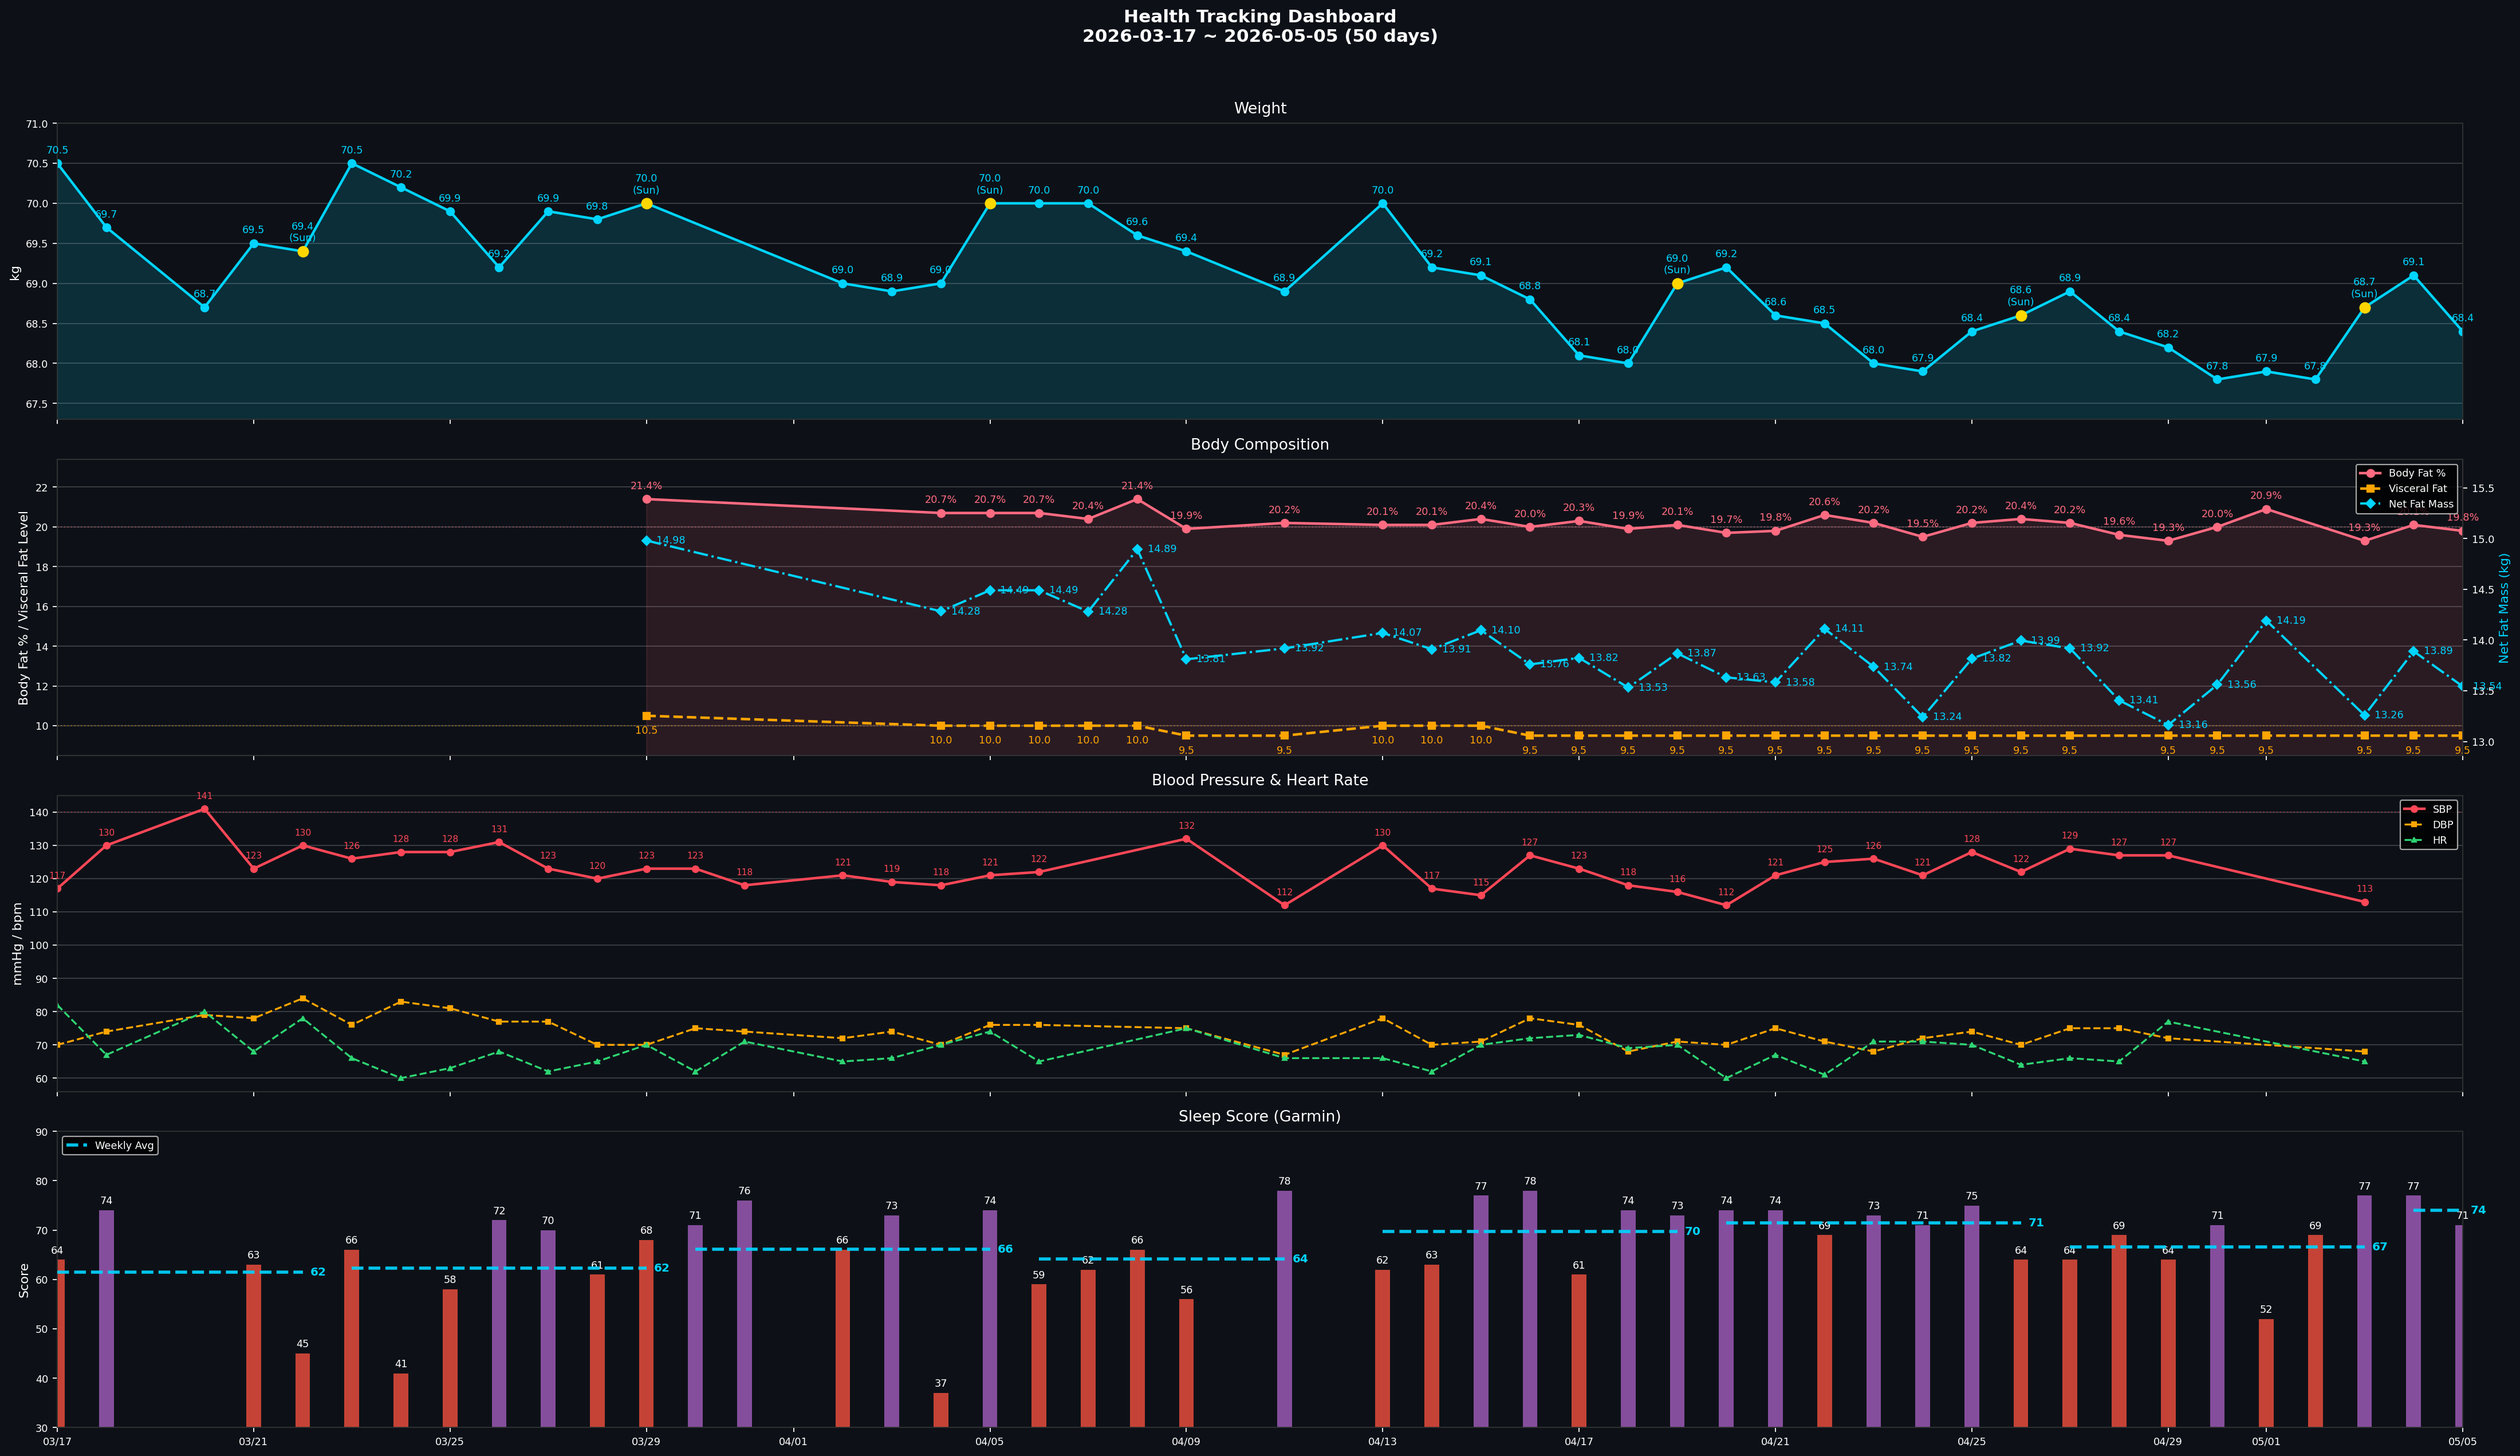
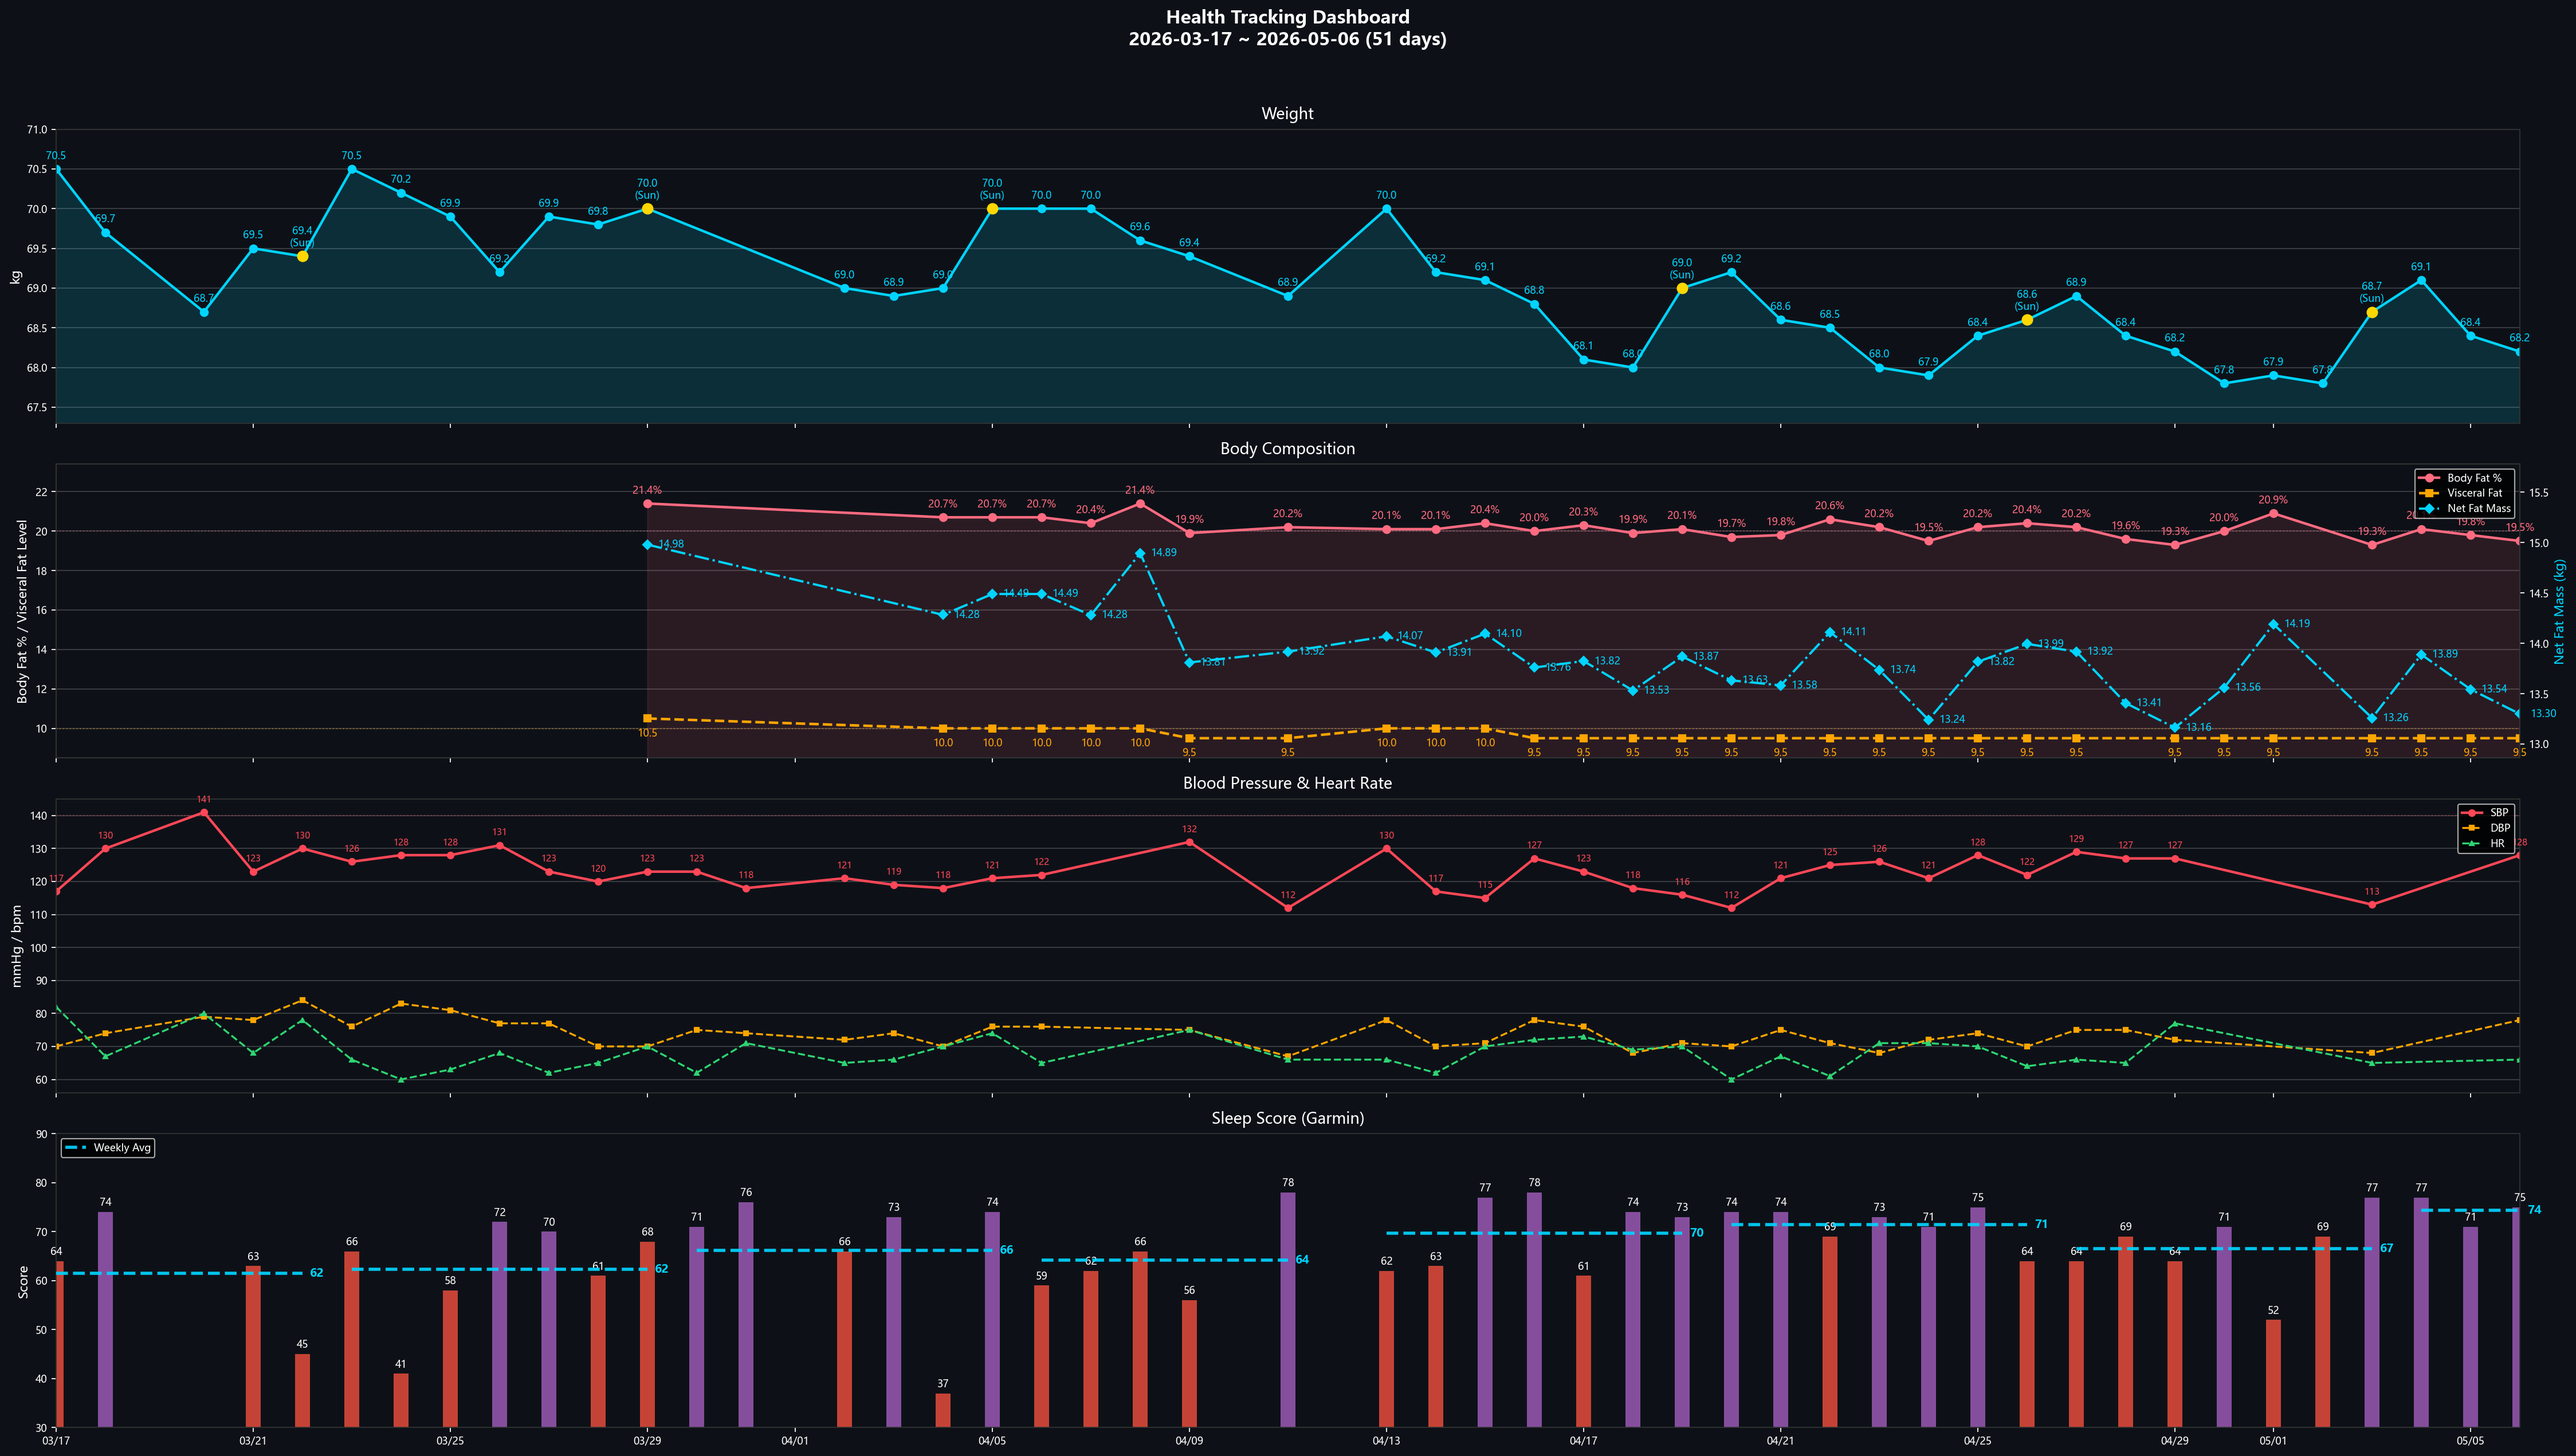
daily 2026-05-06: 68.2/19.5%/9.5｜BP 128/78/66｜Sleep 75 BB 56｜POSA Night 2 T90 4.9% events 4
- 體重 68.2 kg / 體脂 19.5% / 內臟脂肪 9.5
- BP 第二次 128/78/66
- Sleep 75 / BB 56 / 主觀 3 / TST 6h12m / 中醒 2 次
- SpO2 nadir 84%（連 7 晚 < 88%）
- POSA Night 2: T90 4.9% / nadir 84% / events 4 — 落入「強烈 POSA」(T90≤5%)
- 身體信號：左肩 3/10
- 昨日飲水 2.10 L（< 2.5L 目標）

diff --git a/data.js b/data.js
@@ -9,8 +9,8 @@ window.HC_DATA = {
     lede:    { en: "Sleep, BP, lipids, uric acid — one shared metabolic root. Lifestyle stacks first; medication only after lifestyle plateaus.",
                zh: "睡眠、血壓、血脂、尿酸——共享同一個代謝根源。生活方式介入優先，等到效果平台期再考慮藥物。" },
     progressLbl: { en: "Weight progress · 70 → 65 kg", zh: "體重進度 · 70 → 65 公斤" },
-    progressMeta: { en: "Day 50 · 67.8 kg · Sat official (5/2)", zh: "第 50 天 · 67.8 公斤 · 週六正式（5/2）" },
-    startDate: { en: "Start date · Mar 17, 2026 · Last sync 5/5", zh: "起始日期 · 2026 年 3 月 17 日 · 最後同步 5/5" },
+    progressMeta: { en: "Day 51 · 67.8 kg · Sat official (5/2)", zh: "第 51 天 · 67.8 公斤 · 週六正式（5/2）" },
+    startDate: { en: "Start date · Mar 17, 2026 · Last sync 5/6", zh: "起始日期 · 2026 年 3 月 17 日 · 最後同步 5/6" },
     startWeight: 70,
     targetWeight: 65,
     currentWeight: 67.8,
@@ -21,13 +21,13 @@ window.HC_DATA = {
     {
       sys: "heart", name: { en: "Blood Pressure", zh: "血壓" },
       val: "124/72", unit: "mmHg",
-      delta: { en: "W18 weekly avg (4 days) · target met (<130) · last 113/68 (5/3)", zh: "W18 週均（4 天）· 已達標 (<130) · 最新 113/68 (5/3)" },
+      delta: { en: "W18 weekly avg (4 days) · target met (<130) · last 128/78 (5/6)", zh: "W18 週均（4 天）· 已達標 (<130) · 最新 128/78 (5/6)" },
       cadence: { en: "Daily · weekly avg", zh: "每日 · 週均" },
       status: "ok",
     },
     {
       sys: "sleep", name: { en: "Sleep Score", zh: "睡眠分數" },
-      val: "71", unit: "Garmin",
+      val: "75", unit: "Garmin",
       delta: { en: "5/4 · OSA flag: T90 18.4% (severe)", zh: "5/4 · OSA 紅旗：T90 18.4%（重度）" },
       cadence: { en: "Daily · Garmin", zh: "每日 · Garmin" },
       status: "warn",
@@ -820,14 +820,14 @@ window.HC_DATA = {
   tracker: {
     // [SBP, DBP] — gaps filled with prior reading
     bp: [
-      [125,71], [126,68], [121,72], [128,74], [122,70], [129,75], [127,75], [127,72], [127,72], [127,72], [127,72], [113,68], [113,68], [113,68],
+      [126,68], [121,72], [128,74], [122,70], [129,75], [127,75], [127,72], [127,72], [127,72], [127,72], [113,68], [113,68], [113,68], [128,78],
     ],
     // 4/21–5/4 daily weight (kg)
-    weight: [68.5, 68, 67.9, 68.4, 68.6, 68.9, 68.4, 68.2, 67.8, 67.9, 67.8, 68.7, 69.1, 68.4],
+    weight: [68, 67.9, 68.4, 68.6, 68.9, 68.4, 68.2, 67.8, 67.9, 67.8, 68.7, 69.1, 68.4, 68.2],
     // Garmin Sleep Score
-    sleep:  [69, 73, 71, 75, 64, 64, 69, 64, 71, 52, 69, 77, 77, 71],
+    sleep:  [73, 71, 75, 64, 64, 69, 64, 71, 52, 69, 77, 77, 71, 75],
     // Body Battery waking
-    bb:     [60, 59, 34, 66, 60, 57, 57, 58, 51, 47, 41, 54, 49, 47],
+    bb:     [59, 34, 66, 60, 57, 57, 58, 51, 47, 41, 54, 49, 47, 56],
   },
 
   // ===== Running — started 2026-04-26 =====

diff --git a/reviews/daily/2026-05-06.md b/reviews/daily/2026-05-06.md
@@ -1,0 +1,83 @@
+# 晨間健康紀錄 — 2026-05-06
+
+*3 分鐘。起床後立即完成。記錄，不分析。*
+
+---
+
+## 體重
+
+**今日：68.2 kg**
+**體脂率：19.5 %**
+**內臟脂肪等級：9.5**
+
+*每週六早晨為正式紀錄（排尿後、進食前；連 5 個工作日後、週末大餐前的真實低點）。其他日可選填。*
+
+---
+
+## 血壓（晨間）
+
+*起床後 1 小時內，上完廁所、進食前。坐下安靜 5 分鐘，連量兩次取第二次。*
+
+| 次數 | 收縮壓 | 舒張壓 | 心率 |
+|------|--------|--------|------|
+| 第一次 | — | — | — |
+| 第二次 | 128 | 78 | 66 |
+
+---
+
+## 睡眠狀態
+
+**實際就寢：** 22:28
+**實際起床：** 04:55
+**中途醒來：** 2 次（原因 N/A）
+**Garmin Sleep Score：** 75 / 100
+**Garmin Body Battery 起床值：** 56
+**主觀恢復感：** 3 / 5（1=極度疲憊, 5=精力充沛）
+
+### SpO2 夜間最低（7 晚趨勢）
+
+| 日期 | -6 | -5 | -4 | -3 | -2 | -1 | 今晨 |
+|------|----|----|----|----|----|----|------|
+| 日期 | 04-30 | 05-01 | 05-02 | 05-03 | 05-04 | 05-05 | 05-06 |
+| 最低 % | 79 | 84 | 84 | 85 | 80 | 86 | 84 |
+
+**今晨日均 SpO2：** 96%
+**< 88% 連續晚數：** 7（OSA 紅旗門檻：連 3 晚 < 88% → 強烈建議 PSG）
+
+**今晨 epoch-level 統計：** T90 ≈ 4.9%｜nadir 84%｜events 4 段（23:15-23:34 三段叢集 + 04:33-04:36 一段）
+
+**SpO2 全夜圖：** [spo2/spo2_desat_2026-05-06.png](spo2/spo2_desat_2026-05-06.png)
+**SpO2 趨勢圖：** [spo2/spo2_desat_trend.png](spo2/spo2_desat_trend.png)
+
+*Sleep Score < 65 或 Body Battery < 50 連續三天 → 重新檢視睡眠修復方案。*
+
+---
+
+## 昨日回顧
+
+**實際飲水量：** 2.10 L（目標 ≥ 2.5L；高尿酸最佳 2.8–3.0L；17:00 前完成 60-70%）⚠ 達 2.0L 但低於 2.5L 目標
+
+---
+
+## 身體信號
+
+*任何張力、疼痛、疲勞、異常 — 或「清」。記位置、性質、強度。*
+
+| 部位 | 性質 | 強度 (0-10) |
+|------|------|-------------|
+| 左肩 | — | 3 |
+
+---
+
+## 今日計畫速記
+
+- [ ] 飲水目標：2.5 L（建議 2.5–3.0L，17:00 前完成主要量）
+- [ ] 補充品：洛神花茶 ×2 杯 + 魚油 ×2 + Vit D3K2 3000 IU + 酸櫻桃 500 mg + 鎂 400 mg + L-Citrulline 2 g + Psyllium husk 5 g ×2（鎂睡前 1-2 hr；D3K2 / Citrulline 晨間隨脂肪餐；Psyllium 午/晚餐前 30 min）
+- [ ] 運動：依當日安排
+- [ ] 活動度/伸展：依當日安排
+
+---
+
+💡 **PT 建議**：POSA Night 2 T90 4.9% / nadir 84% / events 4 — 已落入「強烈 POSA」(T90 ≤ 5%) 判讀區間，相對 baseline 5/4（T90 18.4%）大幅改善，續行床頭抬高 + 抱枕策略至 Night 4（5/8）結算。今晨 BB 56 偏低、TST 6h12m 短於目標，建議今晚 22:30 前就寢。左肩 3/10 屬輕度，先觀察；若連 3 天未消，加入肩胛活動度伸展。昨日飲水僅 2.10L 未達 2.5L，今日補足。
+
+*Filed: reviews/daily/2026-05-06.md*

diff --git a/reviews/weekly/2026-W19.md b/reviews/weekly/2026-W19.md
@@ -31,9 +31,9 @@
 
 |  | 一 | 二 | 三 | 四 | 五 | 六 | 日 |
 |--|----|----|----|----|----|----|-----|
-| 體重 (kg) | 69.1 | 68.4 | | | | | |
-| 體脂率 (%) | 20.1 | 19.8 | | | | | |
-| 內臟脂肪 | 9.5 | 9.5 | | | | | |
+| 體重 (kg) | 69.1 | 68.4 | 68.2 | | | | |
+| 體脂率 (%) | 20.1 | 19.8 | 19.5 | | | | |
+| 內臟脂肪 | 9.5 | 9.5 | 9.5 | | | | |
 
 **本週正式讀數（週六早晨）：** 待 2026-05-09
 **上週正式讀數（週六早晨）：** 待 2026-05-02 補登
@@ -47,7 +47,7 @@
 |------|--------|--------|------|
 | 2026-05-04 (一) | N/A | N/A | N/A |
 | 2026-05-05 (二) | N/A | N/A | N/A |
-| 2026-05-06 (三) | | | |
+| 2026-05-06 (三) | 128 | 78 | 66 |
 | 2026-05-07 (四) | | | |
 | 2026-05-08 (五) | | | |
 | 2026-05-09 (六) | | | |
@@ -65,7 +65,7 @@
 |------|------|------|--------|-------------|--------------|----------|
 | 2026-05-04 (一) | 22:39 | 05:38 | 1 次（N/A） | 77 | 49 | 3 |
 | 2026-05-05 (二) | 23:07 | 05:22 | 0 | 71 | 47 | 4 |
-| 2026-05-06 (三) | | | | | | |
+| 2026-05-06 (三) | 22:28 | 04:55 | 2 次（N/A） | 75 | 56 | 3 |
 | 2026-05-07 (四) | | | | | | |
 | 2026-05-08 (五) | | | | | | |
 | 2026-05-09 (六) | | | | | | |
@@ -86,6 +86,7 @@
 | 信號（部位+性質） | 出現天數 | 平均強度 | 趨勢（↑↓→） | 備註 |
 |-------------------|----------|----------|-------------|------|
 | 大腿 痠 | 1 | 3.0 | — | 2026-05-04 |
+| 左肩 — | 1 | 3.0 | — | 2026-05-06 |
 
 **反覆出現（≥ 3 天）：** 無
 
@@ -110,6 +111,7 @@
 |------|------------------------|
 | 2026-05-04 | 計畫：走路 + 大腿伸展 |
 | 2026-05-05 | 依當日安排 |
+| 2026-05-06 | 依當日安排 |
 
 ---
 
@@ -148,7 +150,7 @@
 |------|------|------|--------------|------|-------|--------|------|
 | 試驗前 baseline | 5/4 | 仰睡（無介入） | ~100% | **18.4%** | **80%** | **20** | 屋馬延遲爆發 |
 | Night 1 | 5/5 | 床頭抬高 + 抱枕 | 待回填 | **9.7%** | **86%** | **16** | T90 18.4→9.7、nadir 80→86、events 20→16，初步反應佳 |
-| Night 2 | 5/6 | 同上（or 升級網球） | | | | | |
+| Night 2 | 5/6 | 同上（床頭抬高 + 抱枕） | 待回填 | **4.9%** | **84%** | **4** | T90 9.7→4.9、events 16→4，落入「強烈 POSA」(T90 ≤ 5%) |
 | Night 3 | 5/7 | | | | | | |
 | Night 4 | 5/8 | | | | | | |
 | **平均（N1-N4）** | | | | | | | **vs baseline 7-10%** |

diff --git a/reports/daily-garmin/2026-05-06.md b/reports/daily-garmin/2026-05-06.md
@@ -1,0 +1,28 @@
+# Garmin 每日摘要 — 2026-05-06
+
+## 睡眠
+- 就寢：22:28｜起床：04:55
+- 總時長：6h 12m
+- 深眠：77 分｜REM：86 分
+- Sleep Score：75
+- Body Battery 起床值：56
+
+## 靜息心率
+- RHR：61.0 bpm
+
+## 壓力
+- 日均：25
+
+## 步數
+- 總計：2,990
+
+## SpO2
+- 日均：96.0%
+- 最低：84%
+
+## 飲水
+- 實際：0.00 L
+- 目標：2.07 L
+- 運動流汗耗水：0.07 L
+
+_Source: data/garmin/2026-05-06.json (gitignored)_

diff --git a/reports/daily-garmin/2026-05-05.md b/reports/daily-garmin/2026-05-05.md
@@ -11,17 +11,17 @@
 - RHR：62.0 bpm
 
 ## 壓力
-- 日均：22
+- 日均：29
 
 ## 步數
-- 總計：491
+- 總計：8,978
 
 ## SpO2
-- 日均：95.0%
+- 日均：96.0%
 - 最低：86%
 
 ## 飲水
-- 實際：— （Garmin Connect 未紀錄，請於 check-in 手動輸入）
+- 實際：2.10 L
 - 目標：2.00 L
 
 _Source: data/garmin/2026-05-05.json (gitignored)_
